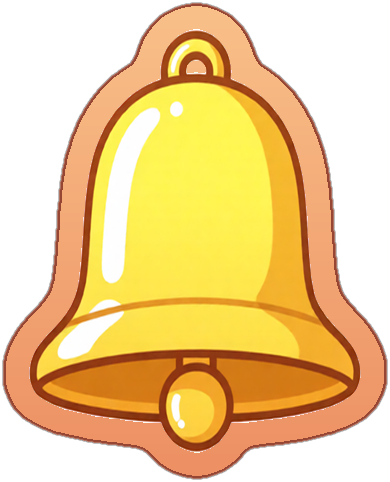
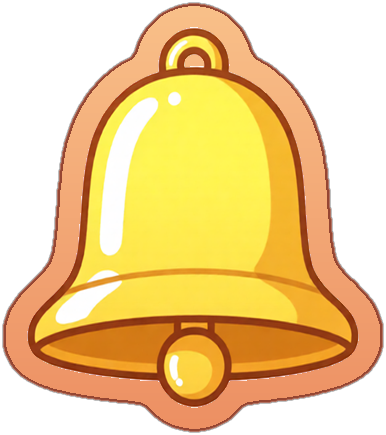
Wheel bell: stretch it only a little
Claude-Session: https://claude.ai/code/session_01QtFU6dnfvYaBk3D56xrstq

diff --git a/game/ui.js b/game/ui.js
@@ -501,7 +501,7 @@
     const bw = (x1 - x0 + 1) / k, bh = (y1 - y0 + 1) / k, bx = (x0 + x1 + 1) / 2 / k, by = (y0 + y1 + 1) / 2 / k;
     const a = -Math.PI / 2 + (WHEEL_ORDER.indexOf(id) * Math.PI) / 4, R = (D.r + D.inner) / 2 + 4;
     const cx = D.cx + R * Math.cos(a), cy = D.cy + R * Math.sin(a);
-    const boxW = id === "w_bj" ? 172 : id === "w_bar" ? 112 : 128, boxH = id === "w_bar" ? 68 : id === "w_bj" ? 126 : id === "w_csengo" ? 122 : 100;
+    const boxW = id === "w_bj" ? 172 : id === "w_bar" ? 112 : 128, boxH = id === "w_bar" ? 68 : id === "w_bj" ? 126 : id === "w_csengo" ? 112 : 100;
     const s = Math.min(boxW / bw, boxH / bh);
     Object.assign(im.style, { left: cx - bx * s + "px", top: cy - by * s + "px", width: im.naturalWidth * s + "px", height: im.naturalHeight * s + "px" });
   }

diff --git a/tools/wheel_symbols.py b/tools/wheel_symbols.py
@@ -18,7 +18,7 @@ SRC = os.path.join(ROOT, "artwork", "wheel_src")
 OUT = os.path.join(ROOT, "game", "assets", "objects")
 TMP = os.path.join(SRC, "_tmp.png")
 
-for name, stretch in (("w_szilva", 1.0), ("w_narancs", 1.0), ("w_dinnye", 1.0), ("w_csengo", 1.2)):
+for name, stretch in (("w_szilva", 1.0), ("w_narancs", 1.0), ("w_dinnye", 1.0), ("w_csengo", 1.08)):
     im = Image.open(os.path.join(SRC, name + ".png")).convert("RGBA")
     if stretch != 1.0:
         im = im.resize((im.width, round(im.height * stretch)), Image.LANCZOS)
